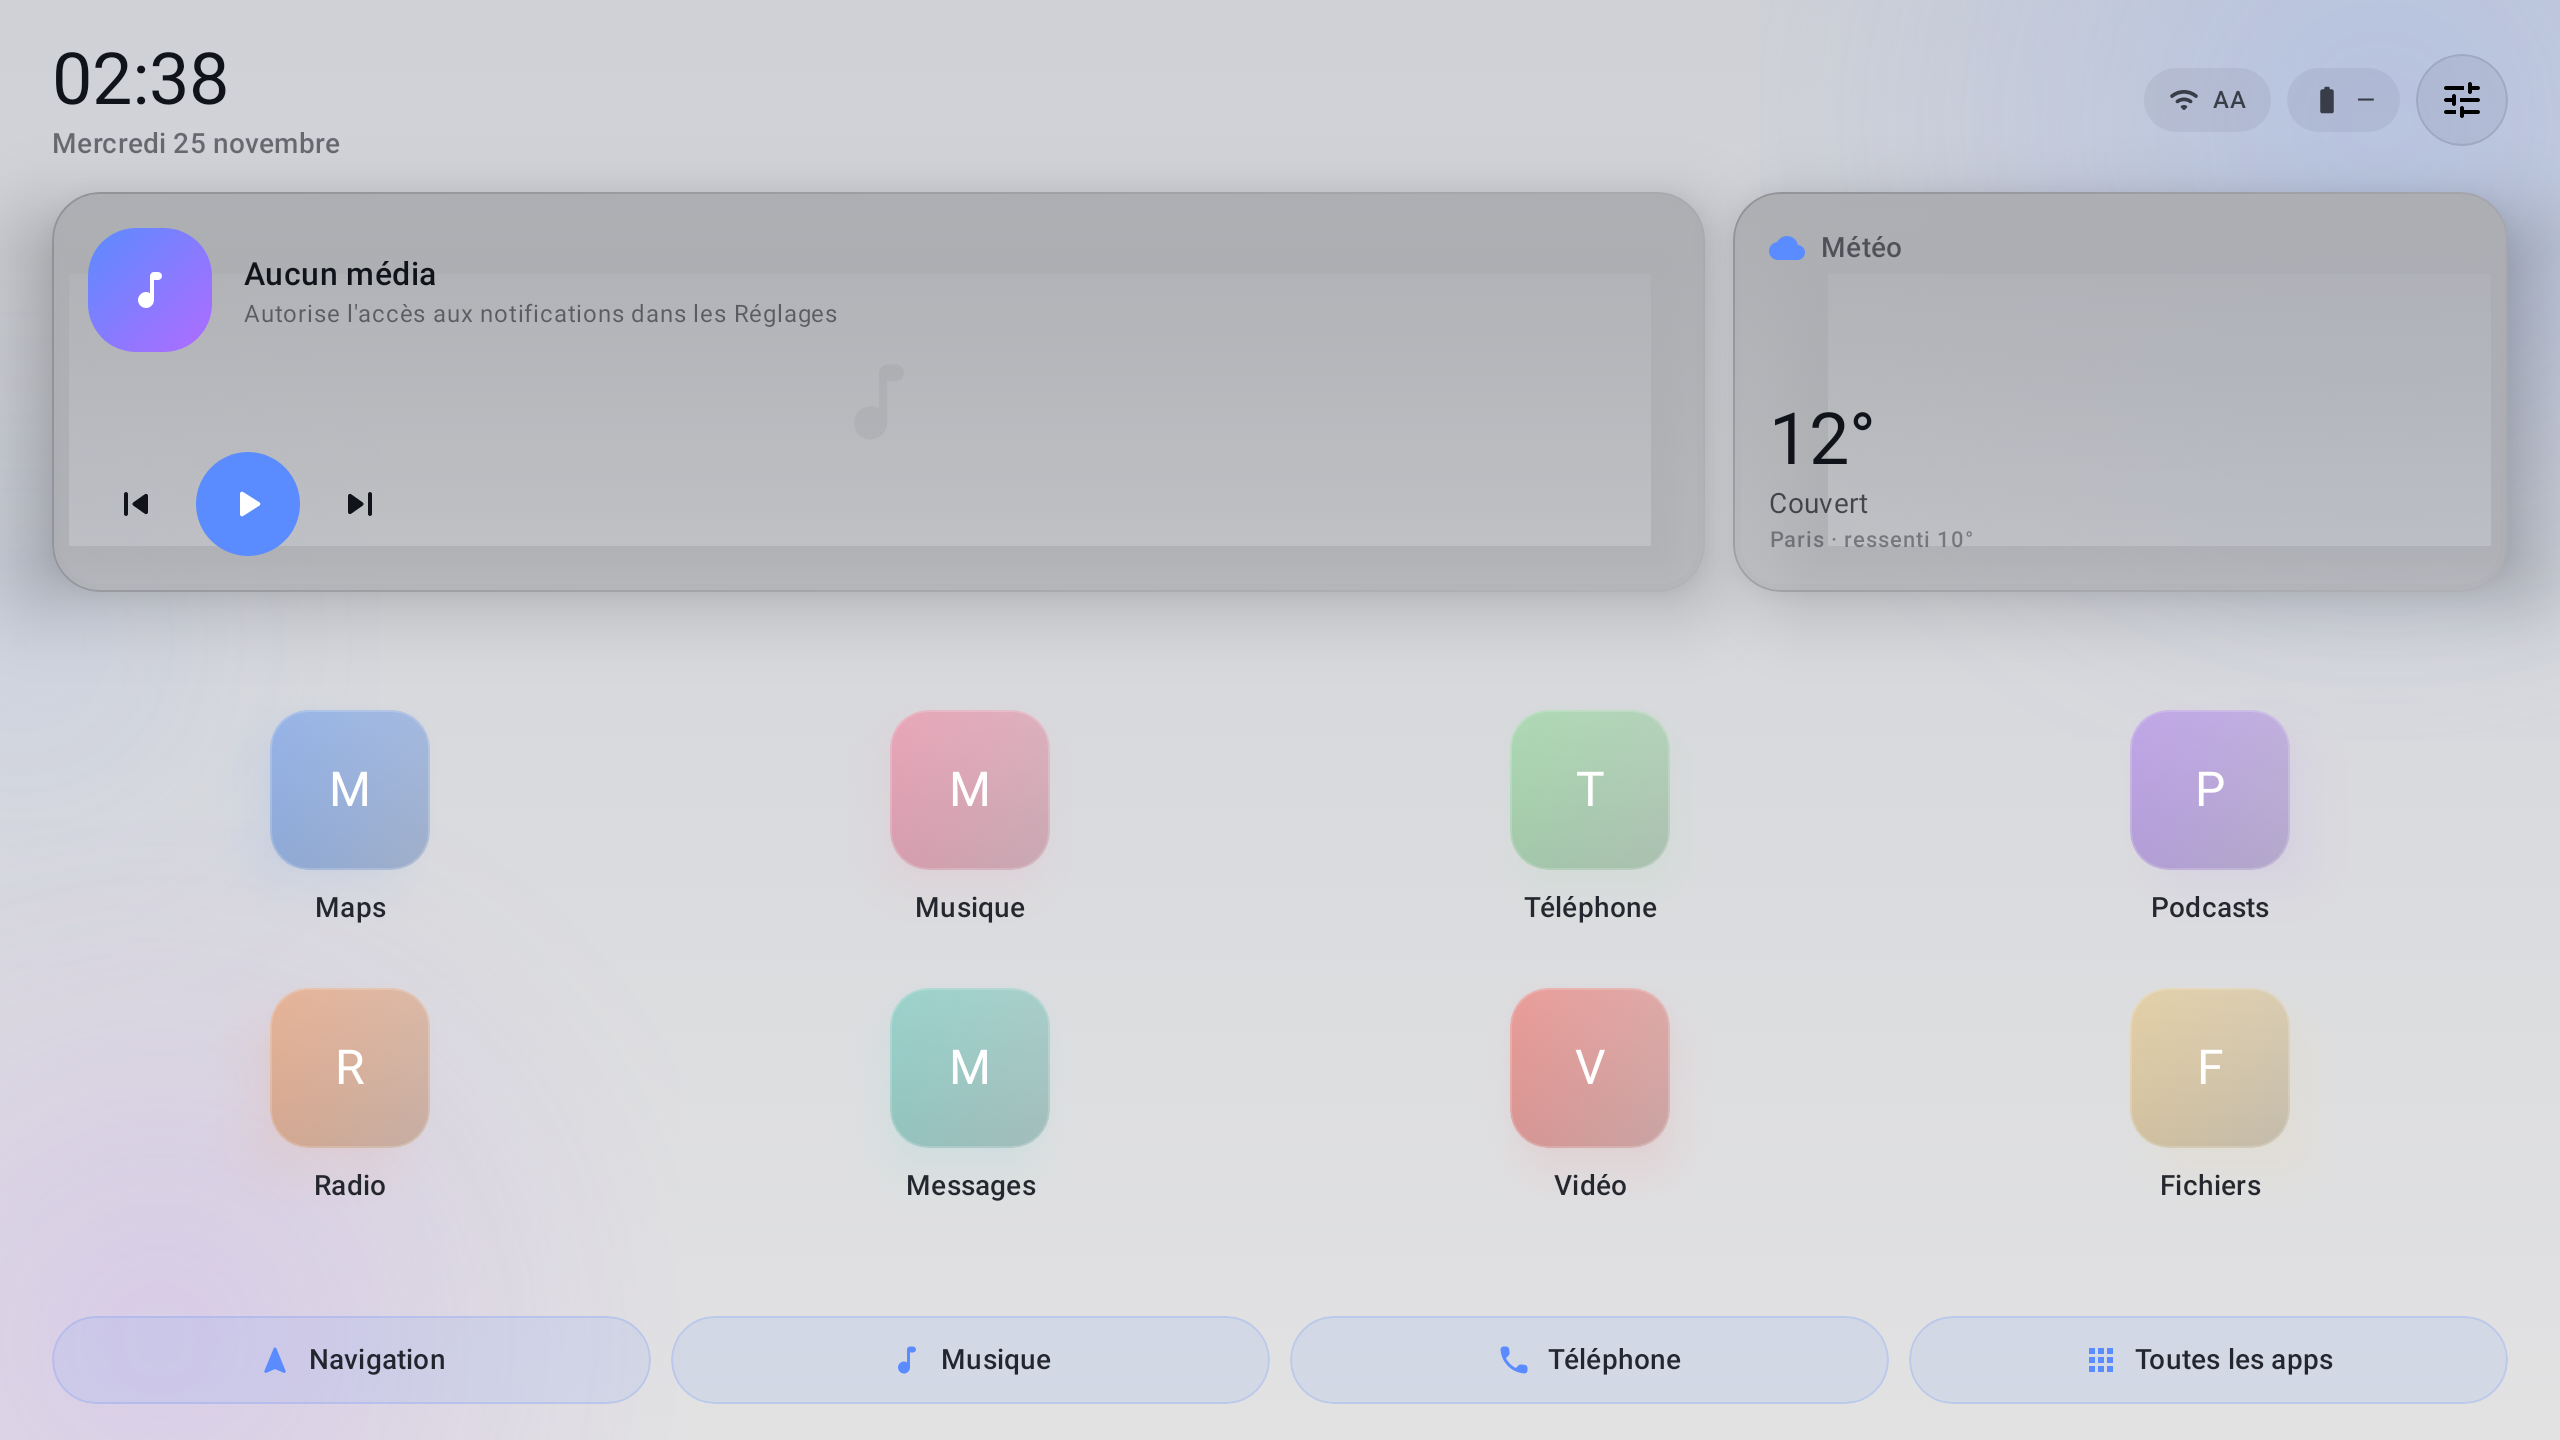
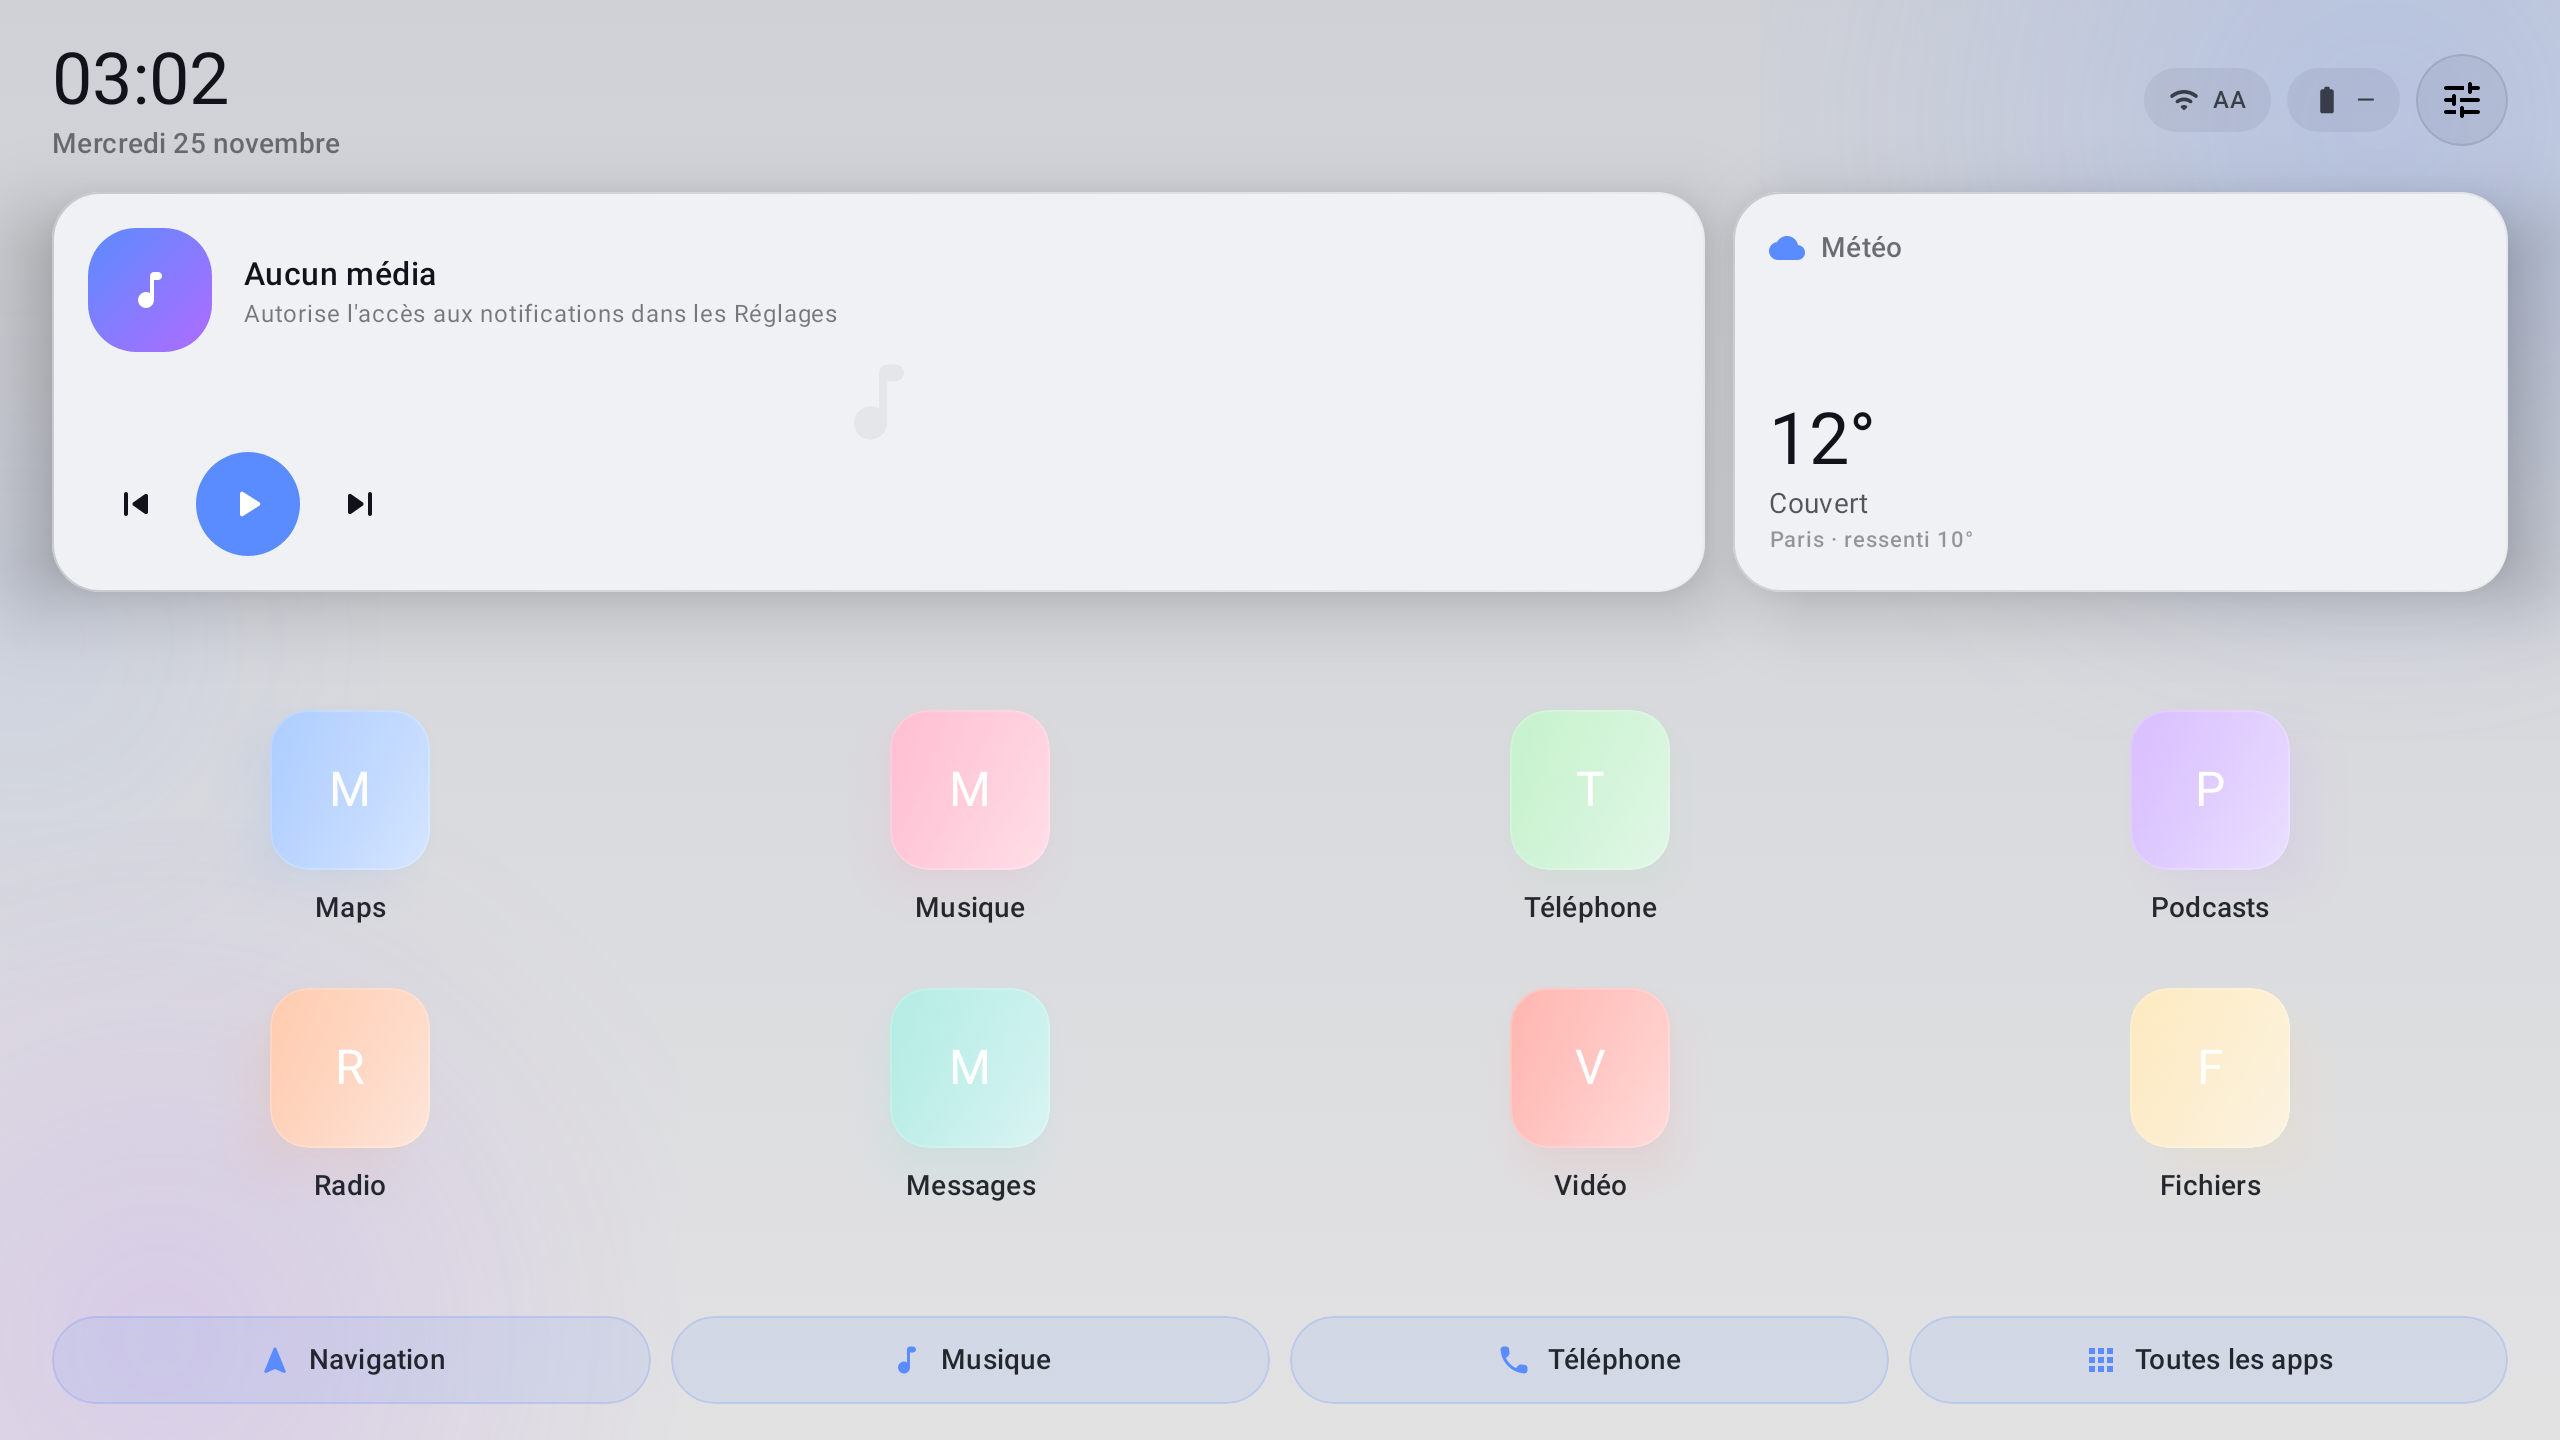
Design : cartes opaques (fin du voile gris), thème jour net, capture Braise
- GlassCard : fond opaque (dégradé interne) au lieu d'un alpha qui laissait
  transparaître l'ombre et grisait les cartes en mode jour.
- Thème jour : surface presque blanche teintée par l'accent, fond plus clair.
- Capture home_ember pour montrer que le rendu tient avec un autre accent.
- APK 0.2.0 régénéré.

diff --git a/app/src/test/java/com/carstudio/app/ScreenshotTest.kt b/app/src/test/java/com/carstudio/app/ScreenshotTest.kt
@@ -8,6 +8,7 @@ import androidx.compose.ui.Modifier
 import androidx.compose.ui.test.junit4.createAndroidComposeRule
 import androidx.compose.ui.test.onRoot
 import androidx.test.core.app.ApplicationProvider
+import com.carstudio.app.data.Presets
 import com.carstudio.app.ui.AppPickerScreen
 import com.carstudio.app.ui.HomeScreen
 import com.carstudio.app.ui.SettingsScreen
@@ -77,6 +78,22 @@ class ScreenshotTest {
 
     @Test
     fun homeDay() = screenshot("home_day", "dock", nightMode = "day")
+
+    @Test
+    fun homeEmber() {
+        val state = newState()
+        state.update {
+            it.copy(layout = "dock", theme = Presets.all.first { p -> p.id == "ember" }.spec)
+        }
+        render("home_ember") {
+            CarTheme(state.settings.theme, "night") {
+                Box(Modifier.fillMaxSize()) {
+                    CarBackground(state.settings.theme, "night")
+                    HomeScreen(state, onOpenSettings = {})
+                }
+            }
+        }
+    }
 
     @Test
     fun appPicker() {

diff --git a/app/src/main/java/com/carstudio/app/ui/theme/CarTheme.kt b/app/src/main/java/com/carstudio/app/ui/theme/CarTheme.kt
@@ -60,8 +60,8 @@ private fun schemeFor(spec: ThemeSpec, nightMode: String): ColorScheme {
     val baseSurface = Color(spec.surface)
     val baseOn = Color(spec.onSurface)
 
-    val background = if (day) lerp(baseBackground, Color.White, 0.9f) else baseBackground
-    val surface = if (day) lerp(baseSurface, Color.White, 0.72f) else baseSurface
+    val background = if (day) lerp(baseBackground, Color.White, 0.88f) else baseBackground
+    val surface = if (day) lerp(Color.White, accent, 0.035f) else baseSurface
     val on = if (day) Color(0xFF10131A) else baseOn
     val onPrimary = if (day) Color.White else Color(0xFF08090C)
 

diff --git a/app/src/main/java/com/carstudio/app/ui/components/Common.kt b/app/src/main/java/com/carstudio/app/ui/components/Common.kt
@@ -68,7 +68,10 @@ fun GlassCard(
                 .clip(shape)
                 .background(
                     Brush.verticalGradient(
-                        listOf(tint.copy(alpha = 0.96f), tint.copy(alpha = 0.60f))
+                        listOf(
+                            lerp(tint, Color.White, 0.04f),
+                            lerp(tint, Color.Black, 0.03f)
+                        )
                     )
                 )
                 .border(

diff --git a/README.md b/README.md
@@ -20,9 +20,9 @@ un accueil par widgets, un moteur de thème très poussé, et des réglages expl
 | --- | --- |
 | ![Focus](docs/screenshots/home_focus.png) | ![Réglages](docs/screenshots/settings.png) |
 
-| Applications | Mode jour |
-| --- | --- |
-| ![Apps](docs/screenshots/app_picker.png) | ![Jour](docs/screenshots/home_day.png) |
+| Applications | Mode jour | Thème Braise |
+| --- | --- | --- |
+| ![Apps](docs/screenshots/app_picker.png) | ![Jour](docs/screenshots/home_day.png) | ![Braise](docs/screenshots/home_ember.png) |
 
 Ces images sont générées par les tests, à partir du vrai code Compose
 (`./gradlew recordRoborazziDebug`).

diff --git a/docs/DESIGN_BRIEF.md b/docs/DESIGN_BRIEF.md
@@ -61,6 +61,7 @@ app/src/main/java/com/carstudio/app/
 | Accueil Split | `docs/screenshots/home_split.png` |
 | Accueil Focus | `docs/screenshots/home_focus.png` |
 | Accueil jour | `docs/screenshots/home_day.png` |
+| Accueil thème Braise | `docs/screenshots/home_ember.png` |
 | Réglages | `docs/screenshots/settings.png` |
 | Applications | `docs/screenshots/app_picker.png` |
 
